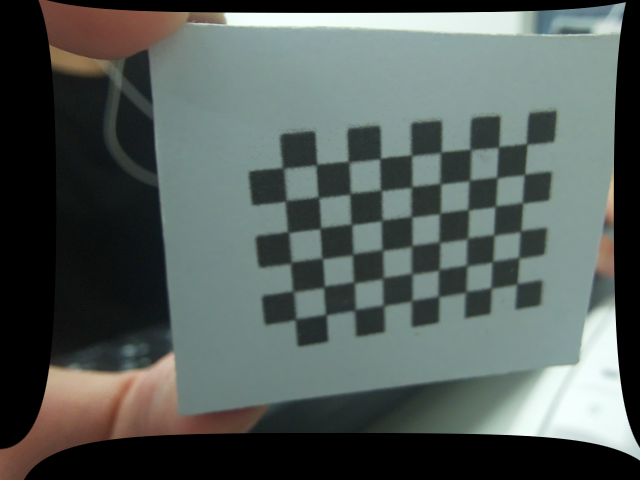
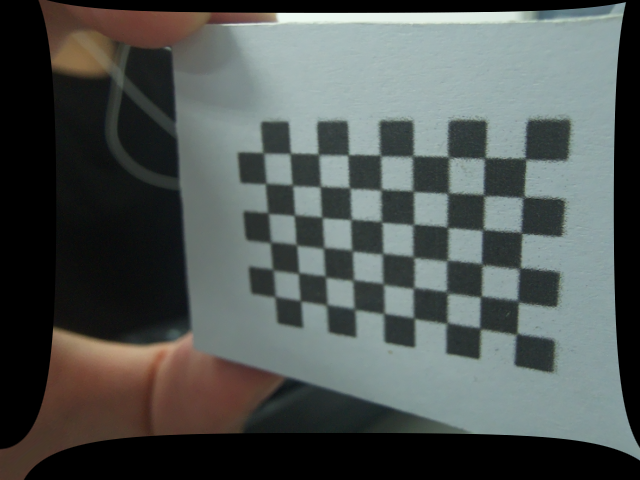
find calib is not well !!

diff --git a/pose_estimation/test_world_coor.py b/pose_estimation/test_world_coor.py
@@ -1,9 +1,21 @@
 import numpy as np
 import cv2
 
-def backproject_to_camera(u_prime, v_prime, H, K, distCoeffs, roi_offset):
-    x_offset, y_offset = roi_offset
+def reflect_point_over_mirror_y_axis_based(point, mirror_to_y_angle_deg):
+    # 鏡面與 y 軸夾角 θ，則與 x 軸夾角為 90° - θ
+    mirror_to_x_angle = 90 - mirror_to_y_angle_deg
+    normal_angle = mirror_to_x_angle + 90  # 鏡面法線與 x 軸夾角
+    theta = np.radians(normal_angle)
 
+    # 建立法向量
+    normal = np.array([np.cos(theta), np.sin(theta)])
+    normal = normal / np.linalg.norm(normal)
+
+    # 鏡射公式：P - 2 * (P·n) * n
+    return point - 2 * np.dot(point, normal) * normal
+
+def backproject_to_camera(u_prime, v_prime, H, K, roi_offset):
+    x_offset, y_offset = roi_offset
     # Step 1: 透視變換還原
     pt_homo = np.array([u_prime, v_prime, 1.0])
     pt_roi = np.linalg.inv(H) @ pt_homo
@@ -13,16 +25,14 @@ def backproject_to_camera(u_prime, v_prime, H, K, distCoeffs, roi_offset):
     u = pt_roi[0] + x_offset
     v = pt_roi[1] + y_offset
 
-    # Step 3: 畸變校正
-    undistorted = cv2.undistortPoints(
-        np.array([[[u, v]]], dtype=np.float32),
-        K,
-        distCoeffs
-    )
-    # Step 4: 組回方向向量（z=1）
-    x_c, y_c = undistorted[0, 0]
-    ray_camera = np.array([x_c, y_c, 1.0])
+   
+    # Step 3: 組回方向向量（z=1）
+    pixel = np.array([u, v, 1.0])
+    ray_camera = np.linalg.inv(K) @ pixel
     ray_camera /= np.linalg.norm(ray_camera)
+    
+    # Step:4: 鏡面校正回來
+    ray_camera = reflect_point_over_mirror_y_axis_based(ray_camera, 60)
     return ray_camera
 
 
@@ -35,7 +45,6 @@ ray_cam = backproject_to_camera(
     v_prime=131,
     H=H,
     K=mtx,
-    distCoeffs=dist,
     roi_offset=(120, 0)  # ROI 的左上角偏移
 )
 print("Ray in camera coordinates:", ray_cam)

diff --git a/print_npy.py b/print_npy.py
@@ -1,0 +1,26 @@
+import numpy as np
+import cv2 as cv
+# 假設你的檔名叫 data.npy
+mtx = np.load('C:/Jill/Code/camera/auto_project/calibration/camera_matrix.npy')
+dist = np.load('C:/Jill/Code/camera/auto_project/calibration/dist_coeff.npy')
+
+mtx_now = np.load('C:/Jill/Code/camera/calibration/camera_matrix.npy')
+dist_now = np.load('C:/Jill/Code/camera/calibration/dist_coeff.npy')
+print(mtx)
+print(dist)
+print(mtx_now)
+print(dist_now)
+
+# undistort
+img = cv.imread('./calibration/final/img12_calib.png')
+h,  w = img.shape[:2]
+newcameramtx, roi = cv.getOptimalNewCameraMatrix(mtx, dist, (w, h), 0.9, (w, h))
+dst = cv.undistort(img, mtx, dist, None, newcameramtx)
+
+newcameramtx_now, roi_now = cv.getOptimalNewCameraMatrix(mtx_now, dist_now, (w, h), 0.9, (w, h))
+dst_now = cv.undistort(img, mtx_now, dist_now, None, newcameramtx_now)
+
+cv.imshow("./calibration/calibresult_cam.png", dst)
+cv.imshow("./calibration/calibresult_cam_now.png", dst_now)
+cv.waitKey(0)
+cv.destroyAllWindows()

diff --git a/calibration.py b/calibration.py
@@ -35,9 +35,10 @@ print('mtx: ',mtx)
 print('dist: ',dist)
 np.save('./calibration/camera_matrix.npy', mtx)
 np.save('./calibration/dist_coeff.npy', dist)
-
+np.save('./calibration/rvecs.npy', rvecs)
+np.save('./calibration/tvecs.npy', tvecs)
 # undistort
-img = cv.imread('./calibration/final/img10_calib.png')
+img = cv.imread('./calibration/final/img12_calib.png')
 h,  w = img.shape[:2]
 newcameramtx, roi = cv.getOptimalNewCameraMatrix(mtx, dist, (w, h), 0.9, (w, h))
 dst = cv.undistort(img, mtx, dist, None, newcameramtx)
